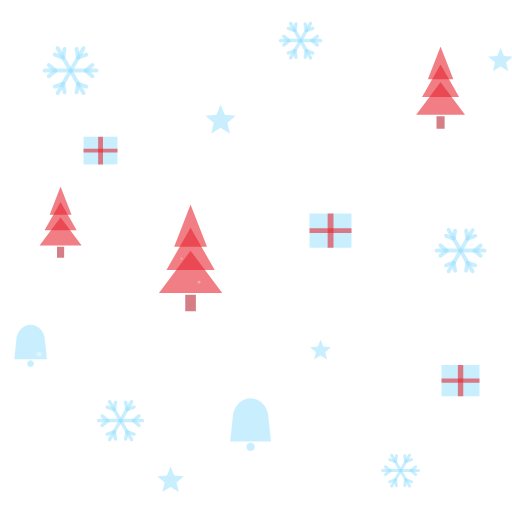
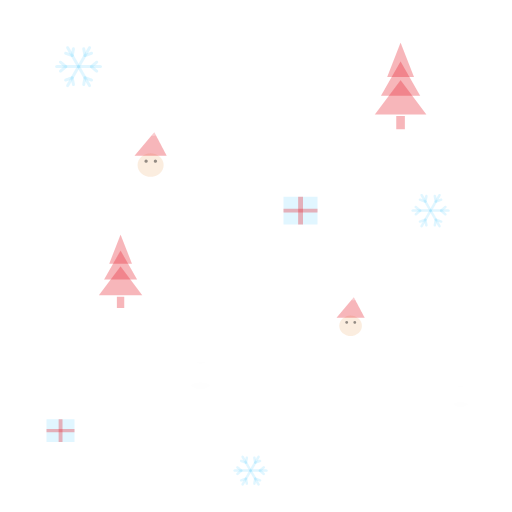
navidad: fondo mas sutil con Papa Noel y muñecos + animacion de nieve cayendo

diff --git a/script.js b/script.js
@@ -1998,6 +1998,27 @@ document.addEventListener('DOMContentLoaded', () => {
         }, 7000);
     })();
 
+    // ===== Nieve cayendo (animacion navidena) =====
+    (function crearNieve() {
+        try {
+            const cont = document.getElementById('snowfall');
+            if (!cont) return;
+            const cuantos = (window.innerWidth < 700) ? 22 : 38;
+            const glifos = ['\u2744', '\u2745', '\u2746', '\u2022'];
+            for (let i = 0; i < cuantos; i++) {
+                const s = document.createElement('span');
+                s.textContent = glifos[Math.floor(Math.random() * glifos.length)];
+                s.style.left = (Math.random() * 100).toFixed(2) + 'vw';
+                s.style.fontSize = (8 + Math.random() * 12).toFixed(0) + 'px';
+                s.style.animationDuration = (8 + Math.random() * 10).toFixed(1) + 's';
+                s.style.animationDelay = (-Math.random() * 16).toFixed(1) + 's';
+                s.style.opacity = (0.30 + Math.random() * 0.45).toFixed(2);
+                s.style.setProperty('--deriva', ((Math.random() * 80) - 40).toFixed(0) + 'px');
+                cont.appendChild(s);
+            }
+        } catch (e) { }
+    })();
+
     function vistaHorizontalAutomatica() {
         try {
             if (typeof applyForcedLandscape === 'function') applyForcedLandscape();

diff --git a/style.css b/style.css
@@ -50,7 +50,7 @@ body {
     overflow: hidden;
     background:
         linear-gradient(rgba(5, 5, 16, 0.60), rgba(5, 5, 16, 0.60)),
-        url('radio_background.png?v=77') center/400px repeat,
+        url('radio_background.png?v=78') center/400px repeat,
         radial-gradient(circle at 50% 50%, #1a1a2e 0%, #050510 100%);
 }
 
@@ -3436,6 +3436,32 @@ main > section {
 @keyframes psBlink {
     0%, 100% { opacity: .9; }
     50%      { opacity: .35; }
+}
+
+/* ===== NIEVE CAYENDO (animacion navidena) ===== */
+.snowfall {
+    position: fixed;
+    inset: 0;
+    pointer-events: none;
+    z-index: 2;
+    overflow: hidden;
+}
+
+.snowfall span {
+    position: absolute;
+    top: -12vh;
+    color: #ffffff;
+    line-height: 1;
+    will-change: transform;
+    animation-name: nieveCae;
+    animation-timing-function: linear;
+    animation-iteration-count: infinite;
+    text-shadow: 0 0 8px rgba(165, 228, 255, 0.55);
+}
+
+@keyframes nieveCae {
+    0%   { transform: translate3d(0, -12vh, 0) rotate(0deg); }
+    100% { transform: translate3d(var(--deriva, 20px), 112vh, 0) rotate(360deg); }
 }
 
 /* ===== FLYERS en formato ACHATADO / CUADRADO (TV y computador) =====

diff --git a/index.html b/index.html
@@ -141,7 +141,7 @@
       "inLanguage": "es"
     }
     </script>
-    <link rel="stylesheet" href="style.css?v=77">
+    <link rel="stylesheet" href="style.css?v=78">
     <link rel="preconnect" href="https://fonts.googleapis.com">
     <link rel="preconnect" href="https://fonts.gstatic.com" crossorigin>
     <link href="https://fonts.googleapis.com/css2?family=Outfit:wght@300;500;700;900&display=swap" rel="stylesheet">
@@ -152,6 +152,8 @@
 </head>
 
 <body>
+    <!-- Nieve cayendo (animacion navidena) -->
+    <div class="snowfall" id="snowfall" aria-hidden="true"></div>
     <div class="background-animation">
         <div class="mesh-gradient"></div>
     </div>
@@ -563,7 +565,7 @@
         </div>
     </div>
 
-    <script src="script.js?v=77"></script>
+    <script src="script.js?v=78"></script>
 </body>
 
 </html>

diff --git a/sw.js b/sw.js
@@ -1,7 +1,7 @@
 /* Service Worker - Master Crazy Radio PWA
    Estrategia: red primero para TODO lo propio del sitio (asi los cambios llegan
    al instante) con la cache como respaldo cuando no hay conexion. */
-const CACHE_NAME = 'master-crazy-radio-v77';
+const CACHE_NAME = 'master-crazy-radio-v78';
 const APP_SHELL = [
   './',
   './index.html',
